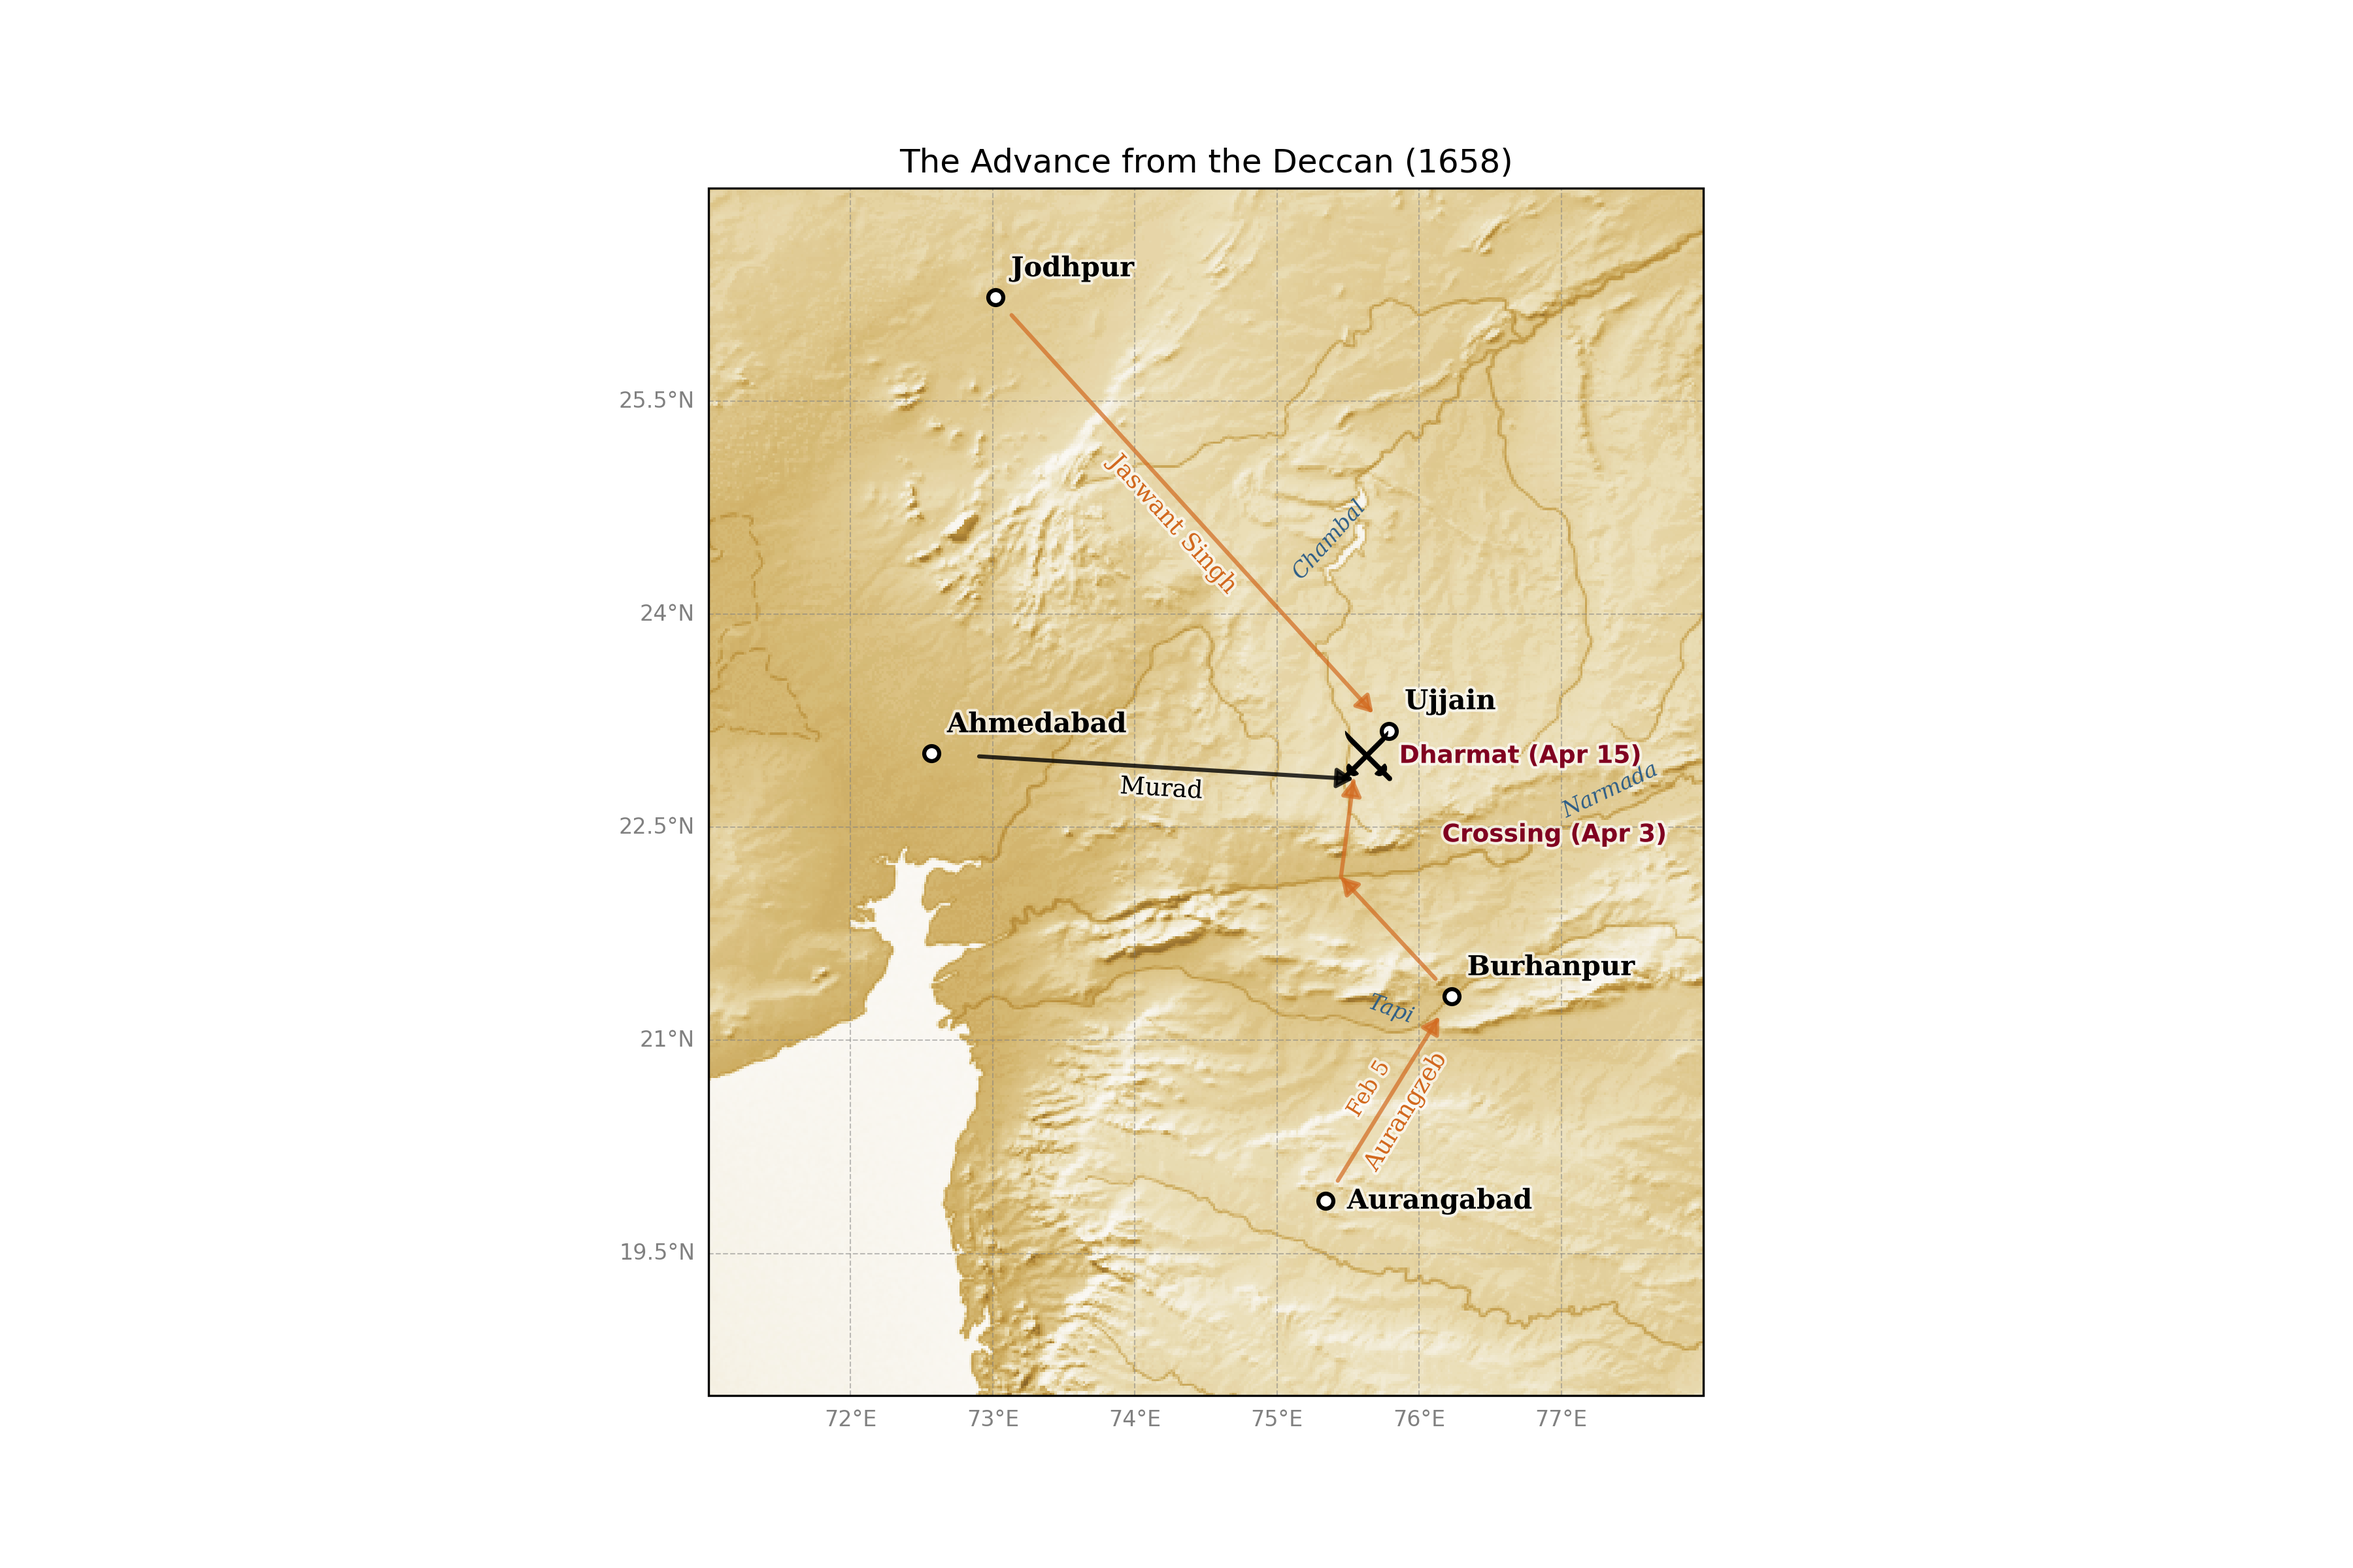
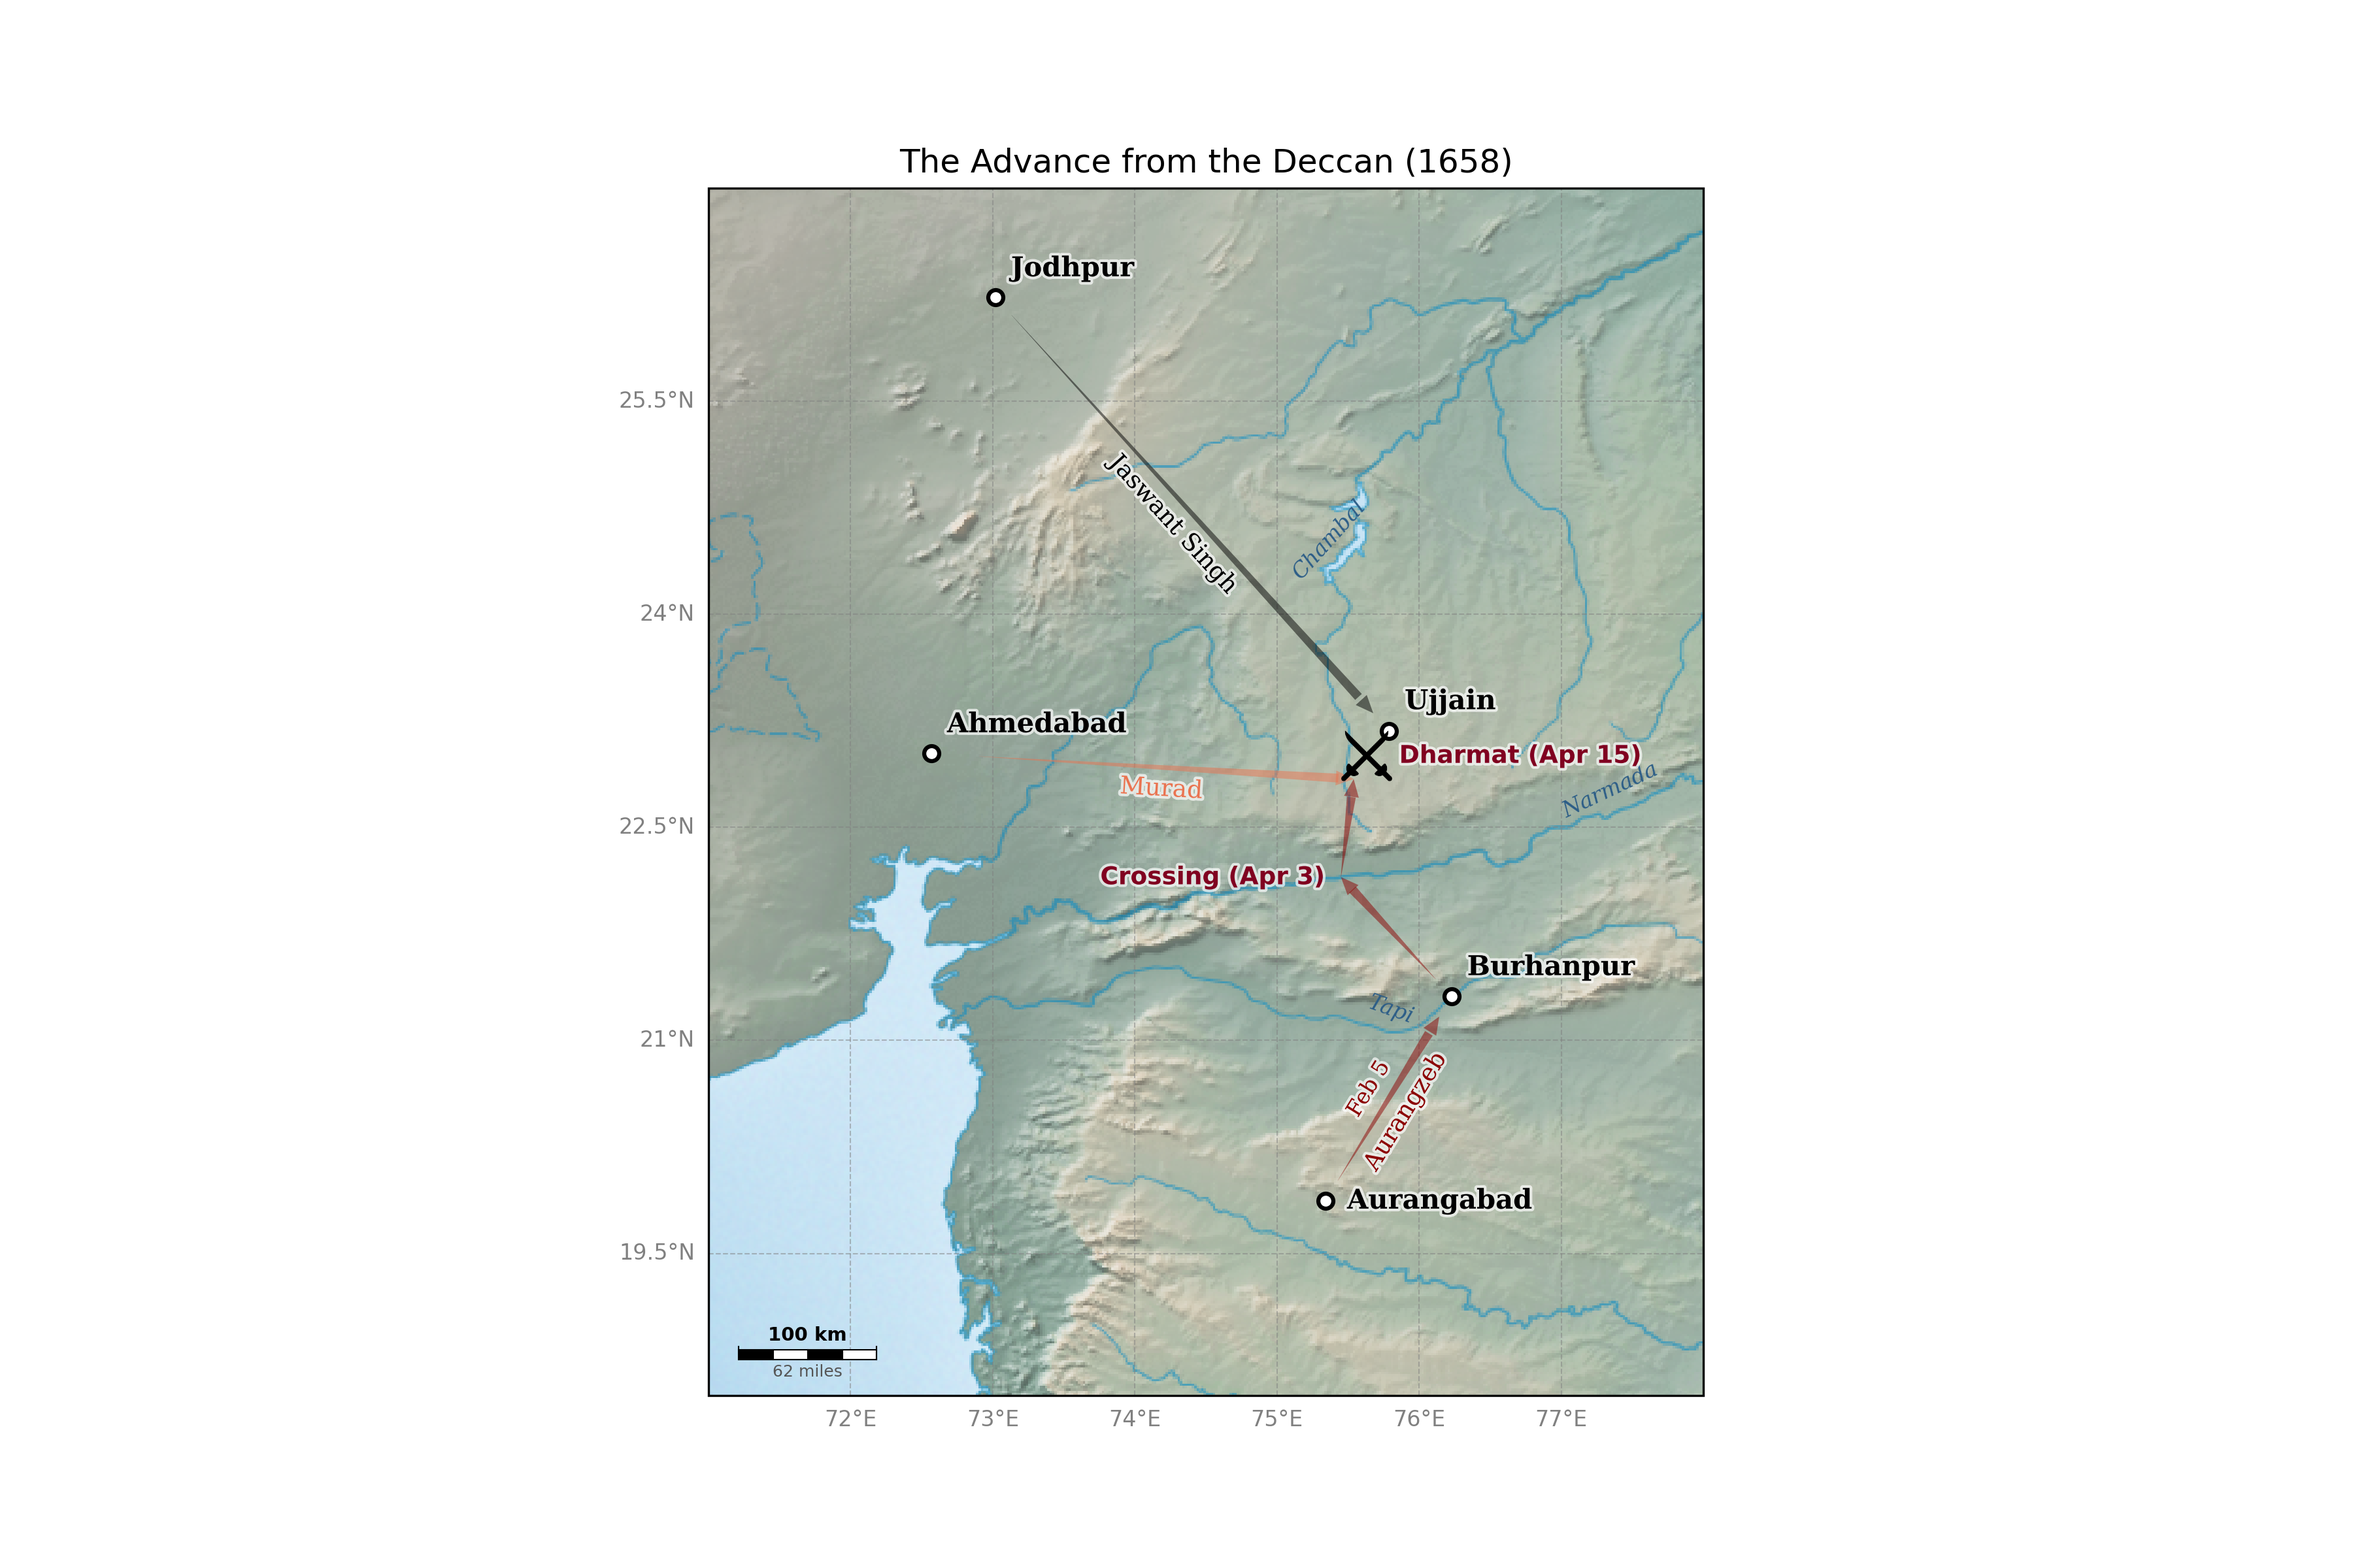
more beauty

diff --git a/src/history_cartopy/stylemaps.py b/src/history_cartopy/stylemaps.py
@@ -62,6 +62,22 @@ CAMPAIGN_STYLES = {
         'alpha': 0.5,
         'type': 'power'
     },
+    'invasion-orange': {
+        'color': '#E97451',      # Orange
+        'linewidth': 2.5,
+        'linestyle': '-',        # Solid line for main force
+        'arrowstyle': 'fancy,head_length=5.5,head_width=5.5',
+        'alpha': 0.5,
+        'type': 'power'
+    },
+    'invasion-black': {
+        'color': '#000000',      # Black
+        'linewidth': 2.5,
+        'linestyle': '-',        # Solid line for main force
+        'arrowstyle': 'fancy,head_length=5.5,head_width=5.5',
+        'alpha': 0.5,
+        'type': 'power'
+    },
     'boring': {
         'color': '#d2691e',      # Chocolate/Orange
         'linewidth': 1.5,
